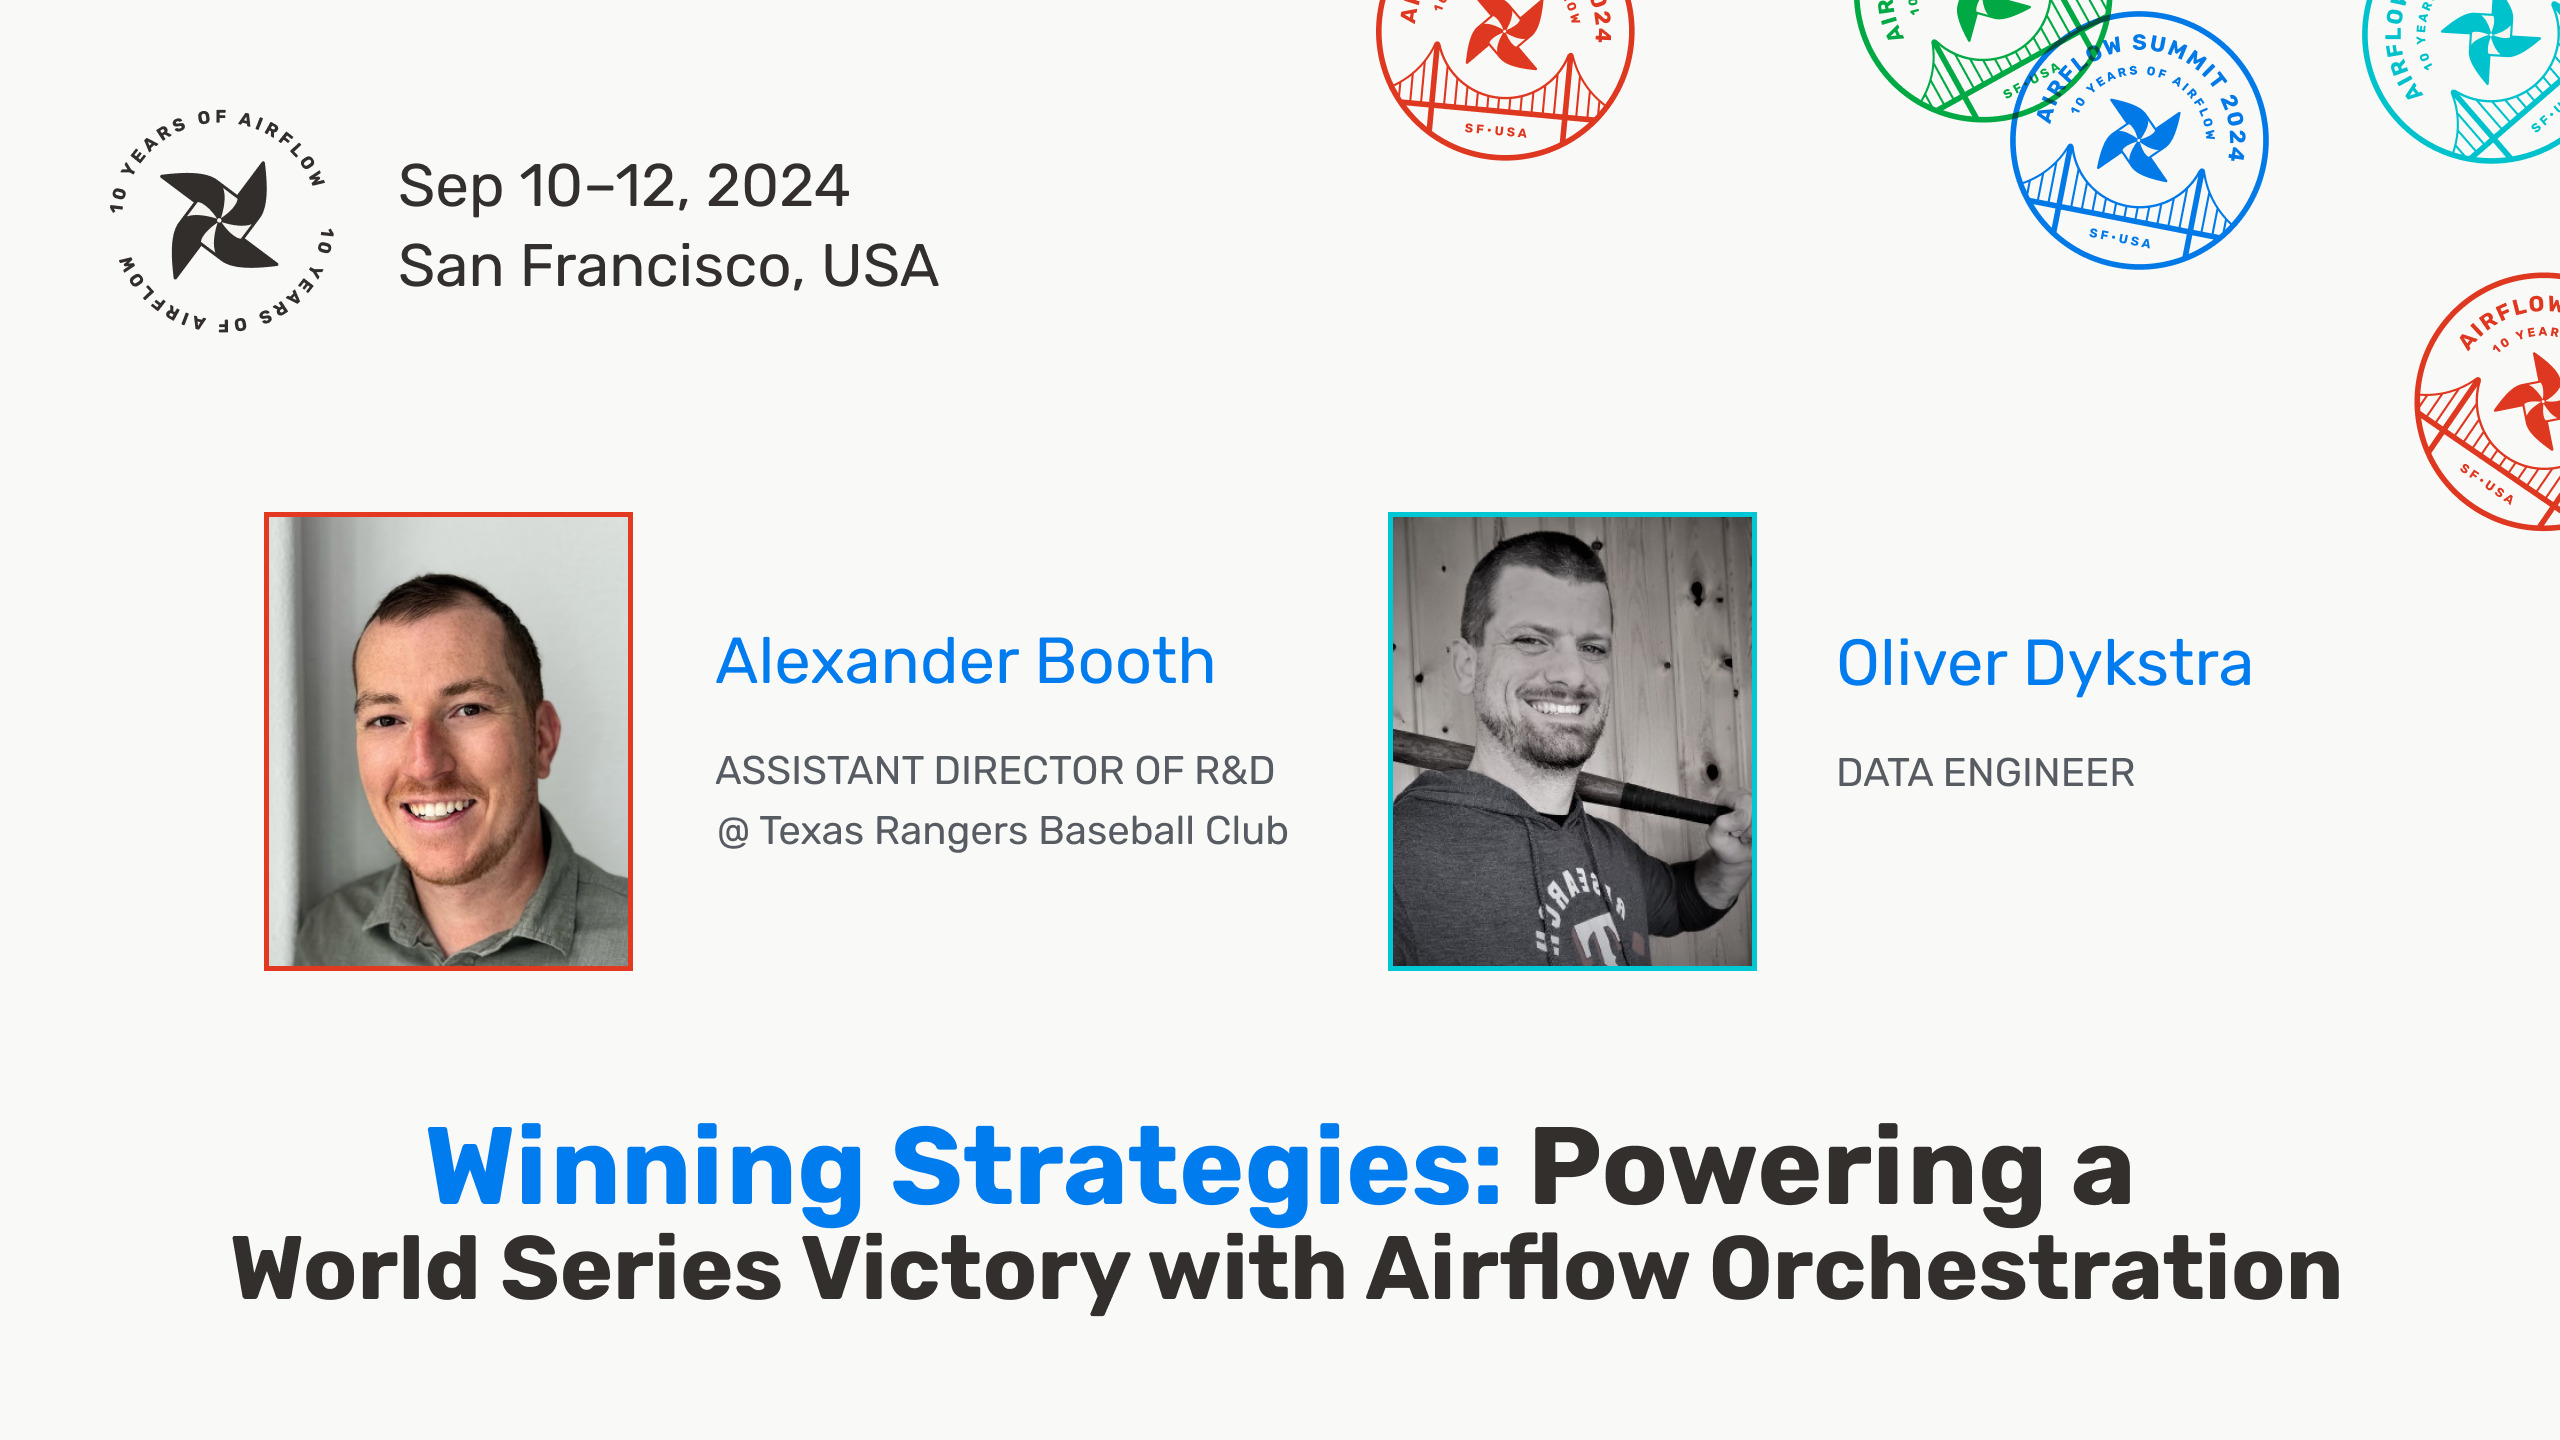
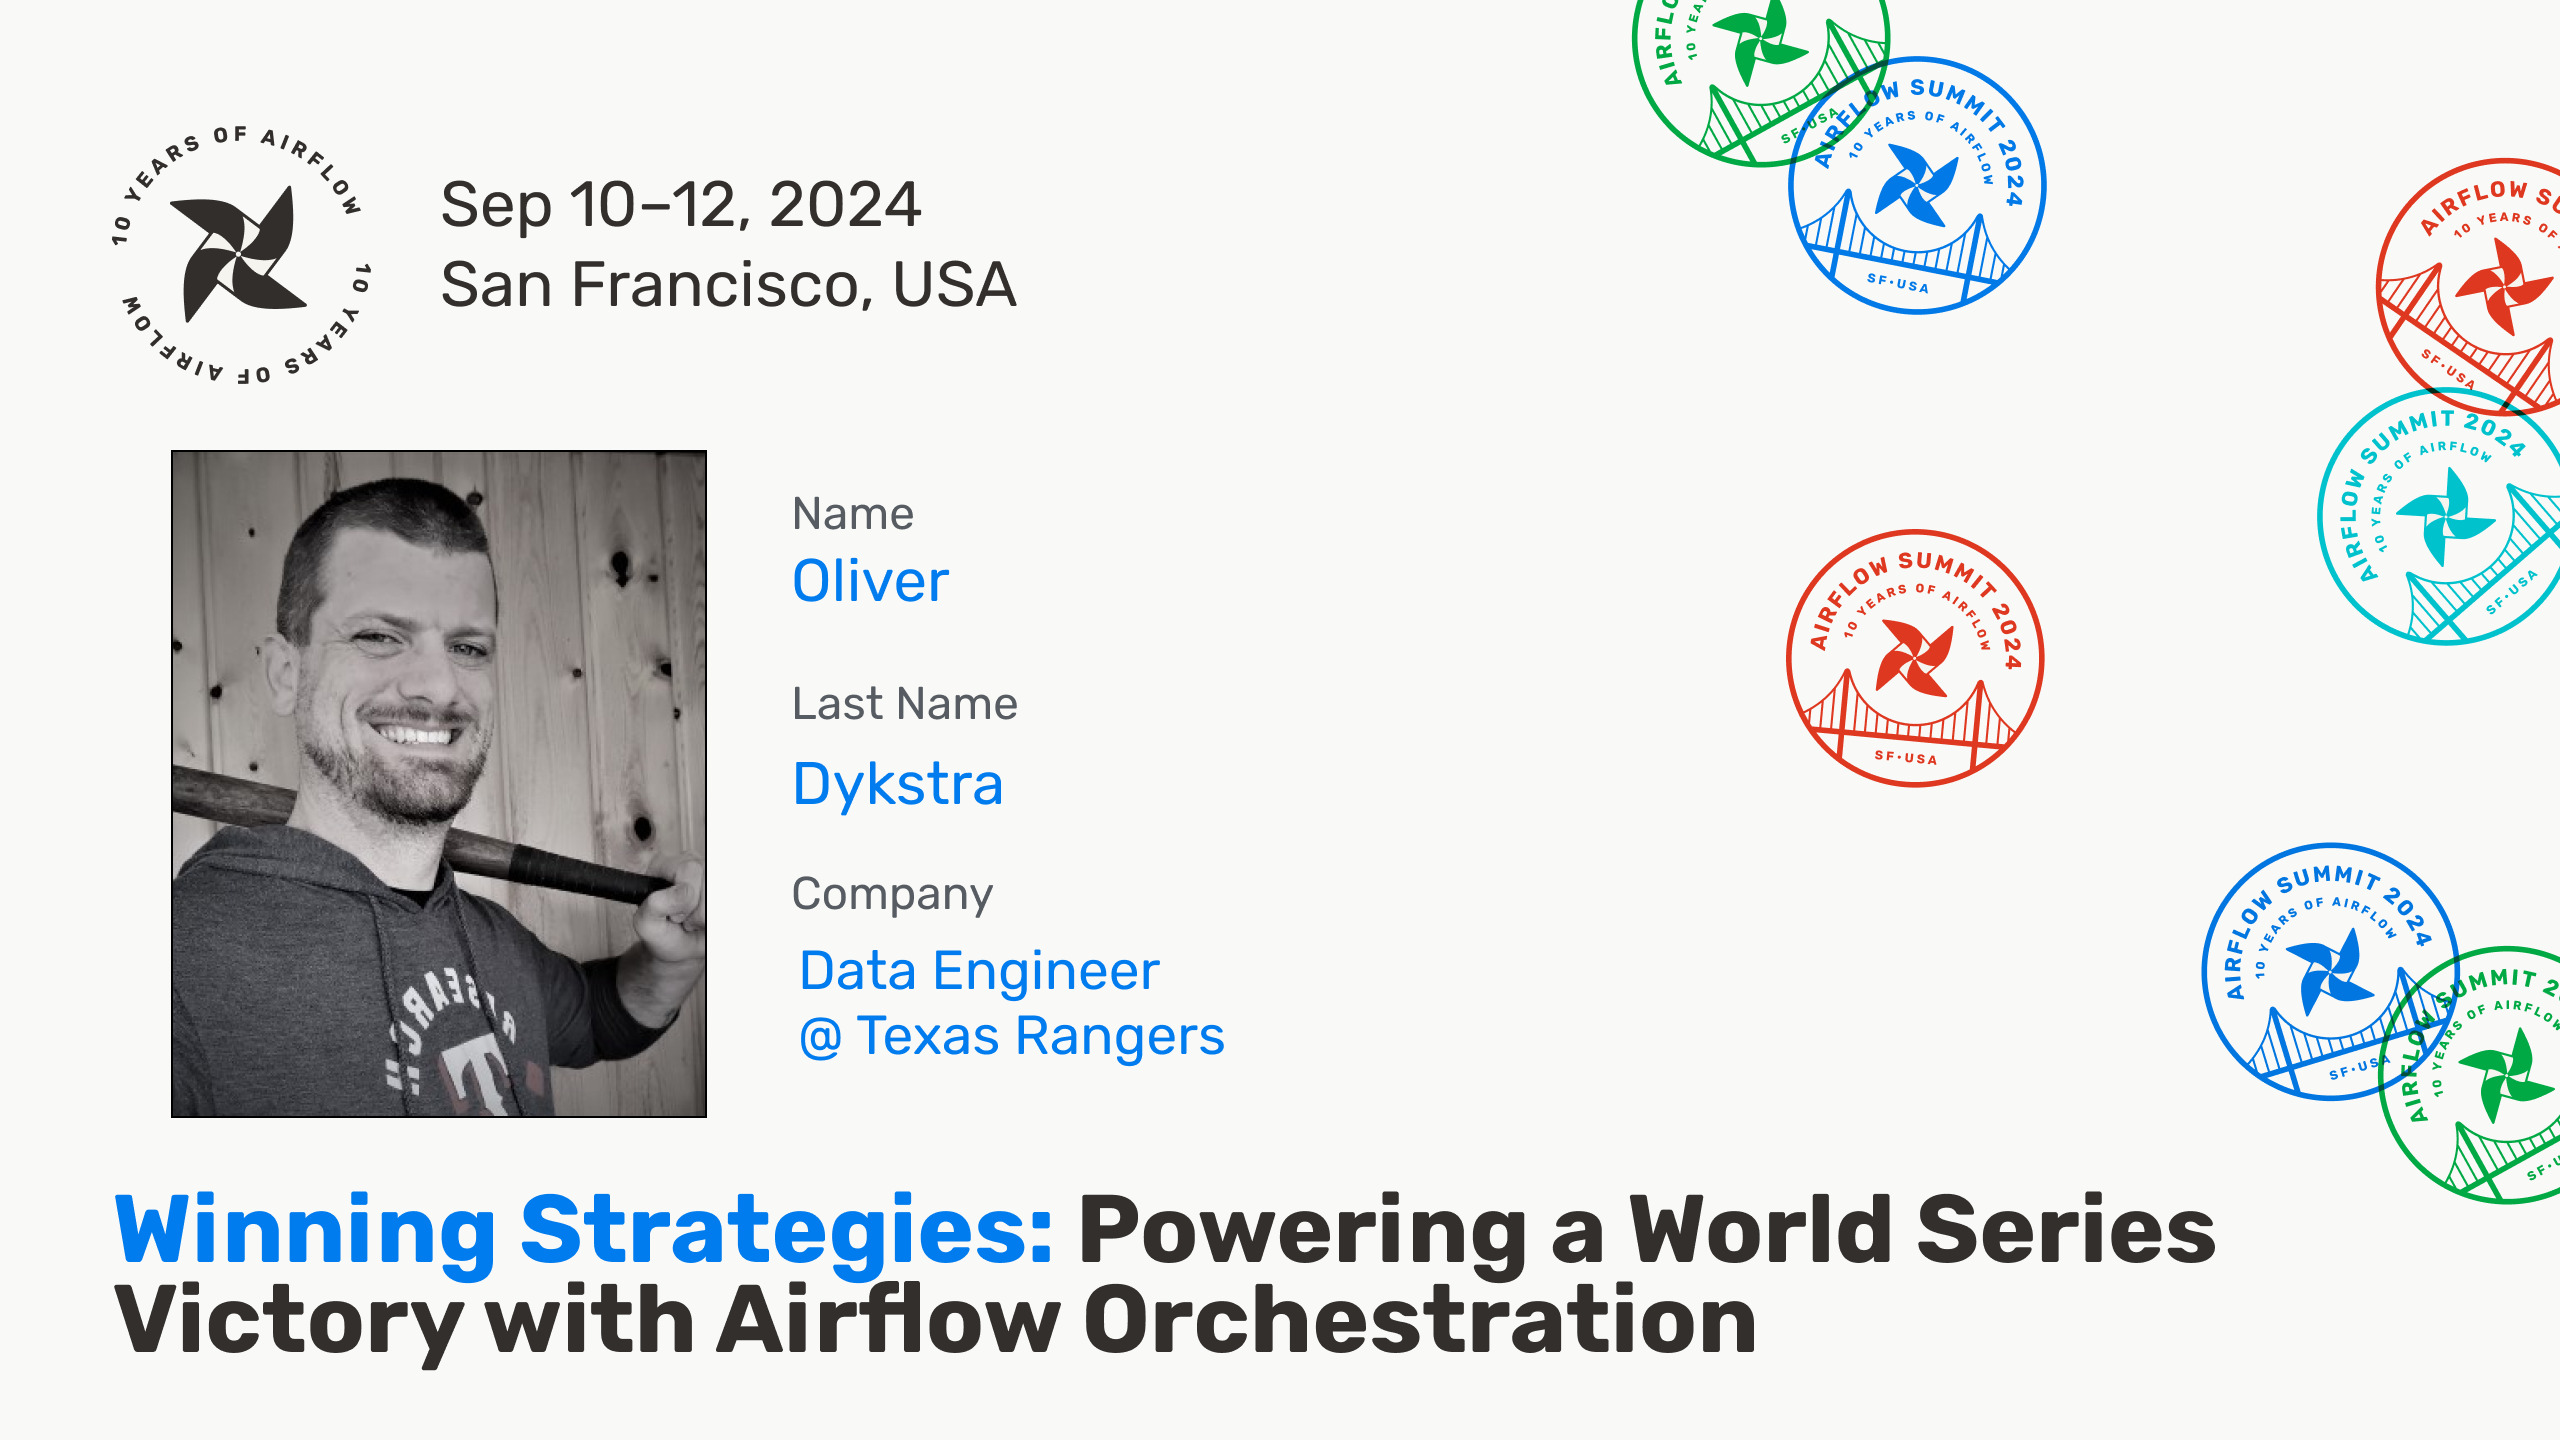
Remove Alexander Booth

diff --git a/content/speakers/alexander-booth/_index.md b/content/speakers/alexander-booth/_index.md
@@ -9,6 +9,7 @@ linkedin: https://www.linkedin.com/in/alexander-booth-tx/
 github: 
 events:
  - 2024
+draft: true
 ---
 
 Alexander is a data scientist and machine learning engineer with extensive experience in using artificial intelligence techniques and big data to recommend data-driven decisions to management to help generate a competitive advantage. He specializes in Sports Analytics with a particular passion for evangelizing how innovation and new technology can shape the game of baseball.

diff --git a/content/sessions/2024/41-winning-strategies-powering-a-world-series-victory-with-airflow-orchestration.md b/content/sessions/2024/41-winning-strategies-powering-a-world-series-victory-with-airflow-orchestration.md
@@ -2,7 +2,6 @@
 title: "Winning Strategies: Powering a World Series Victory with Airflow Orchestration"
 slug: winning-strategies-powering-a-world-series-victory-with-airflow-orchestration
 speakers:
- - Alexander Booth
  - Oliver Dykstra
 time_start: 2024-09-11 09:30:00
 time_end: 2024-09-11 09:55:00
